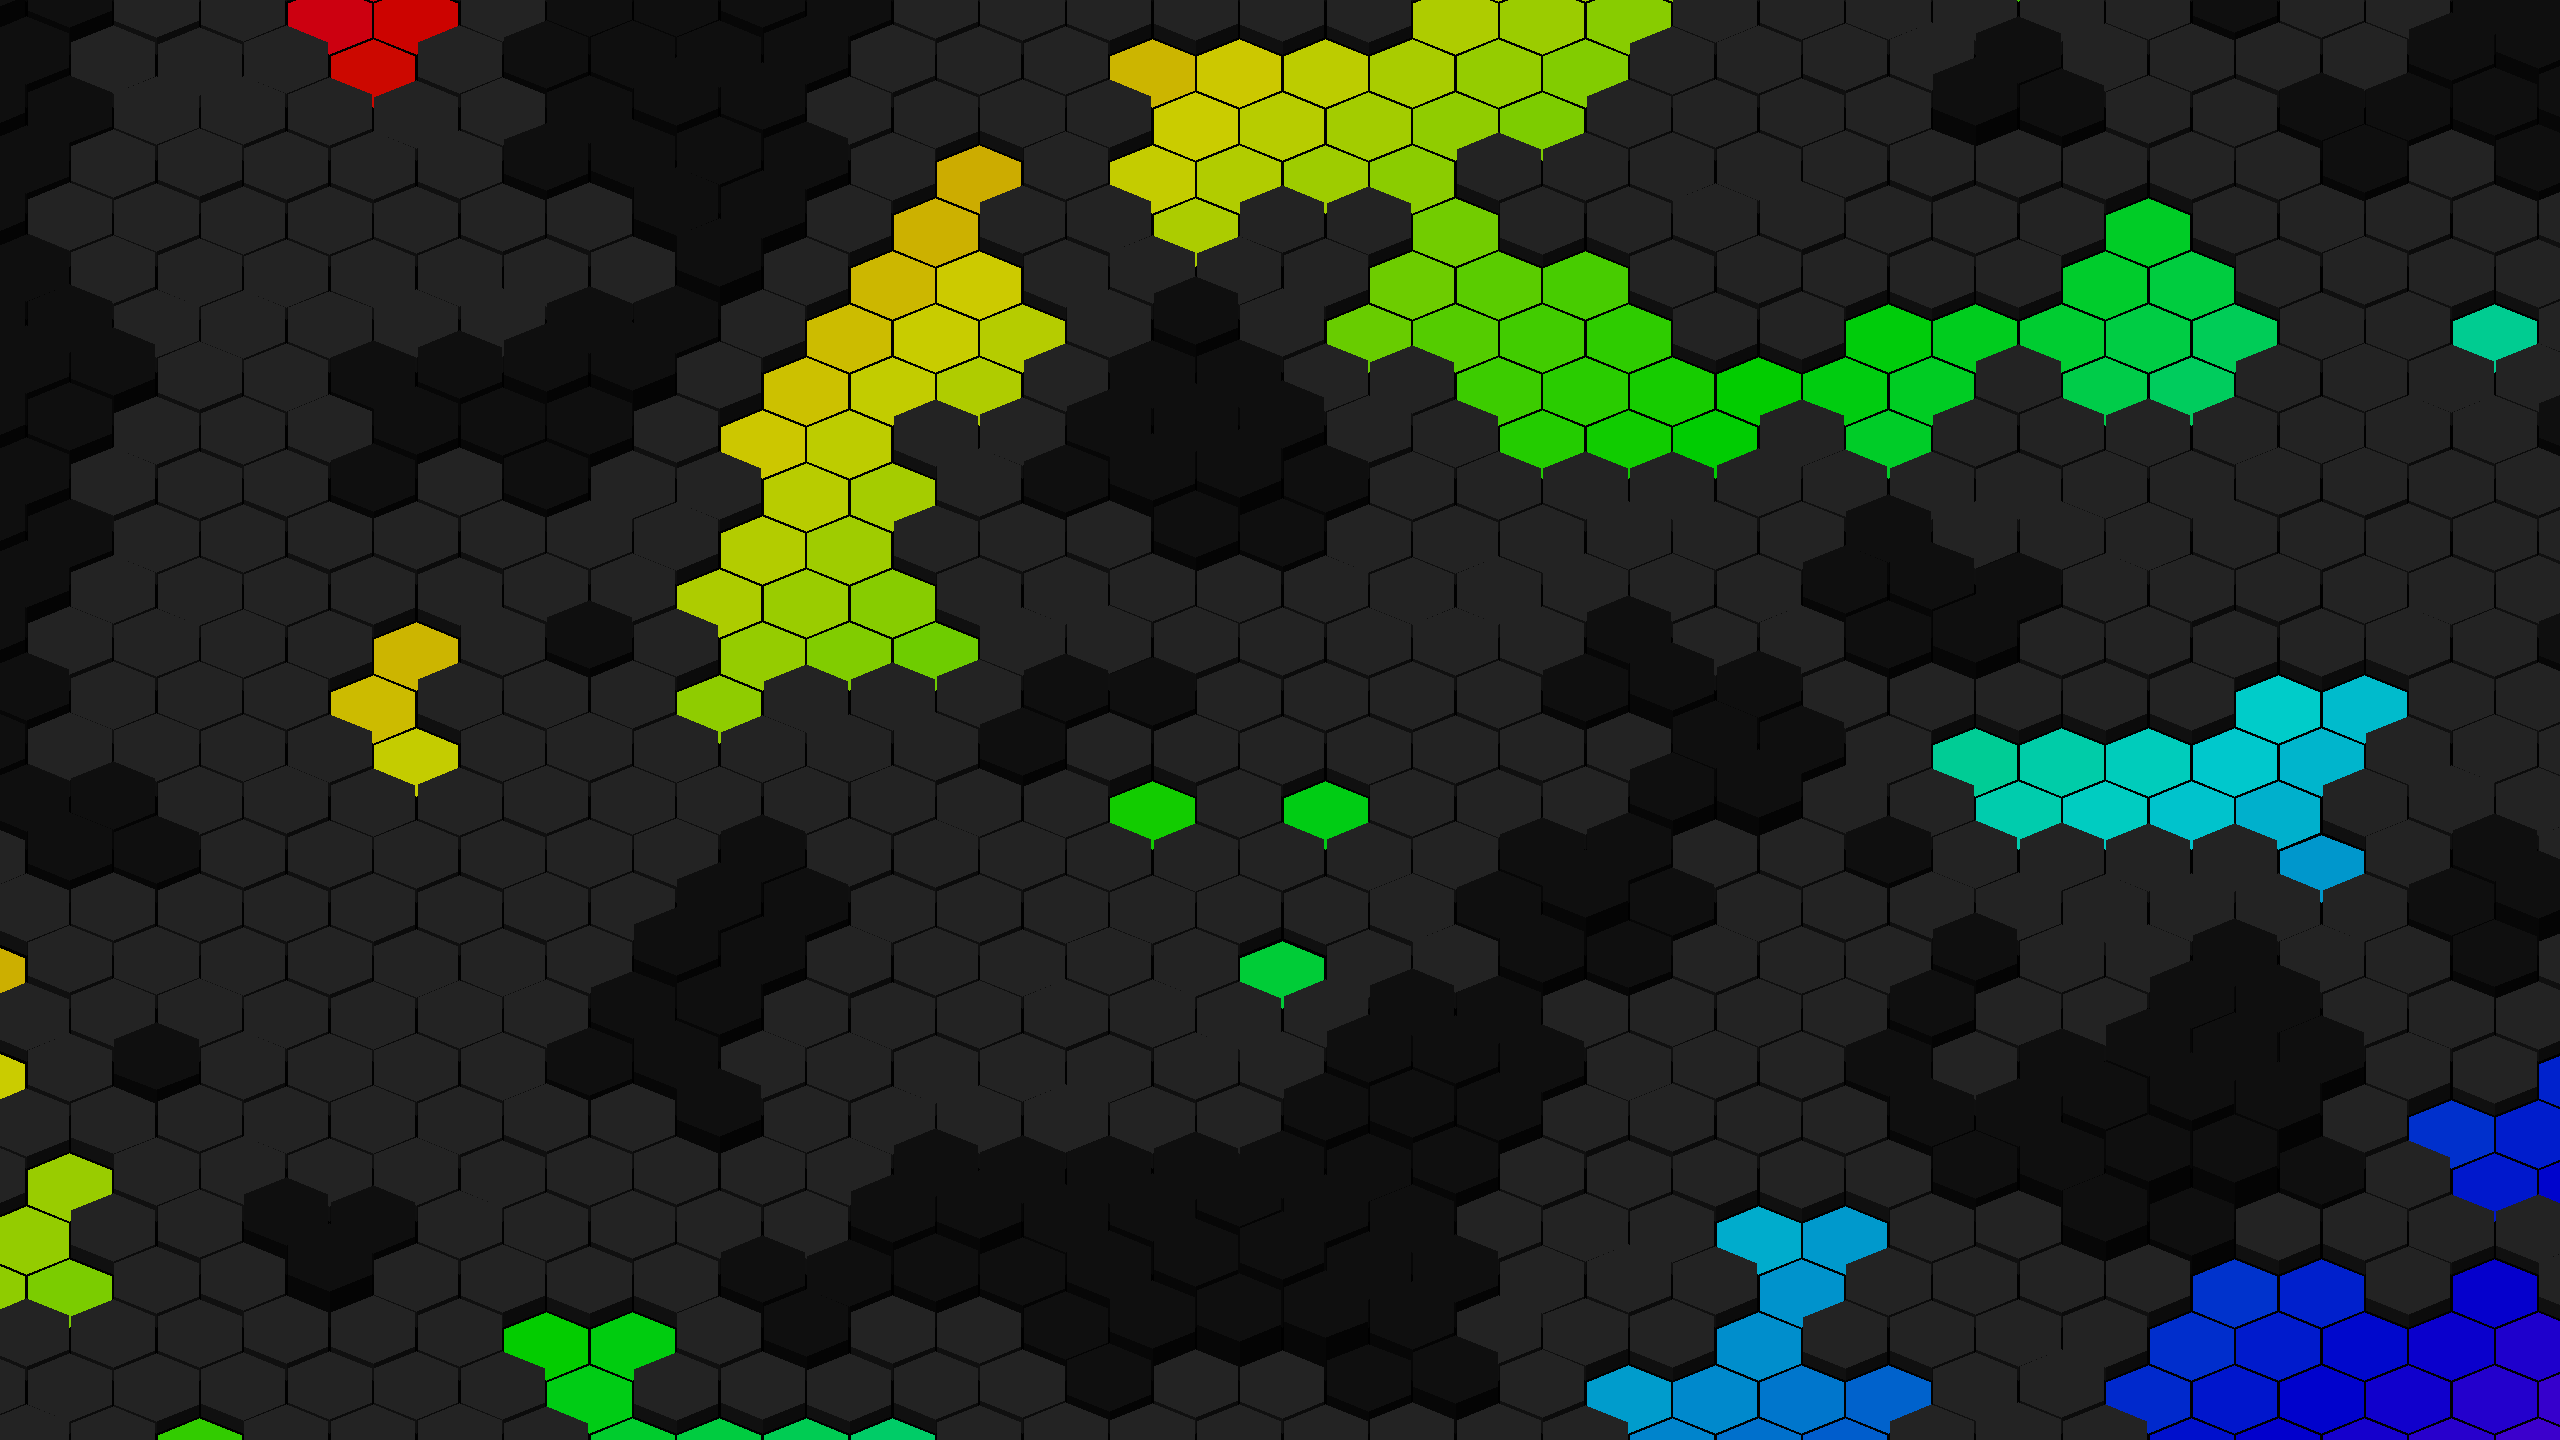
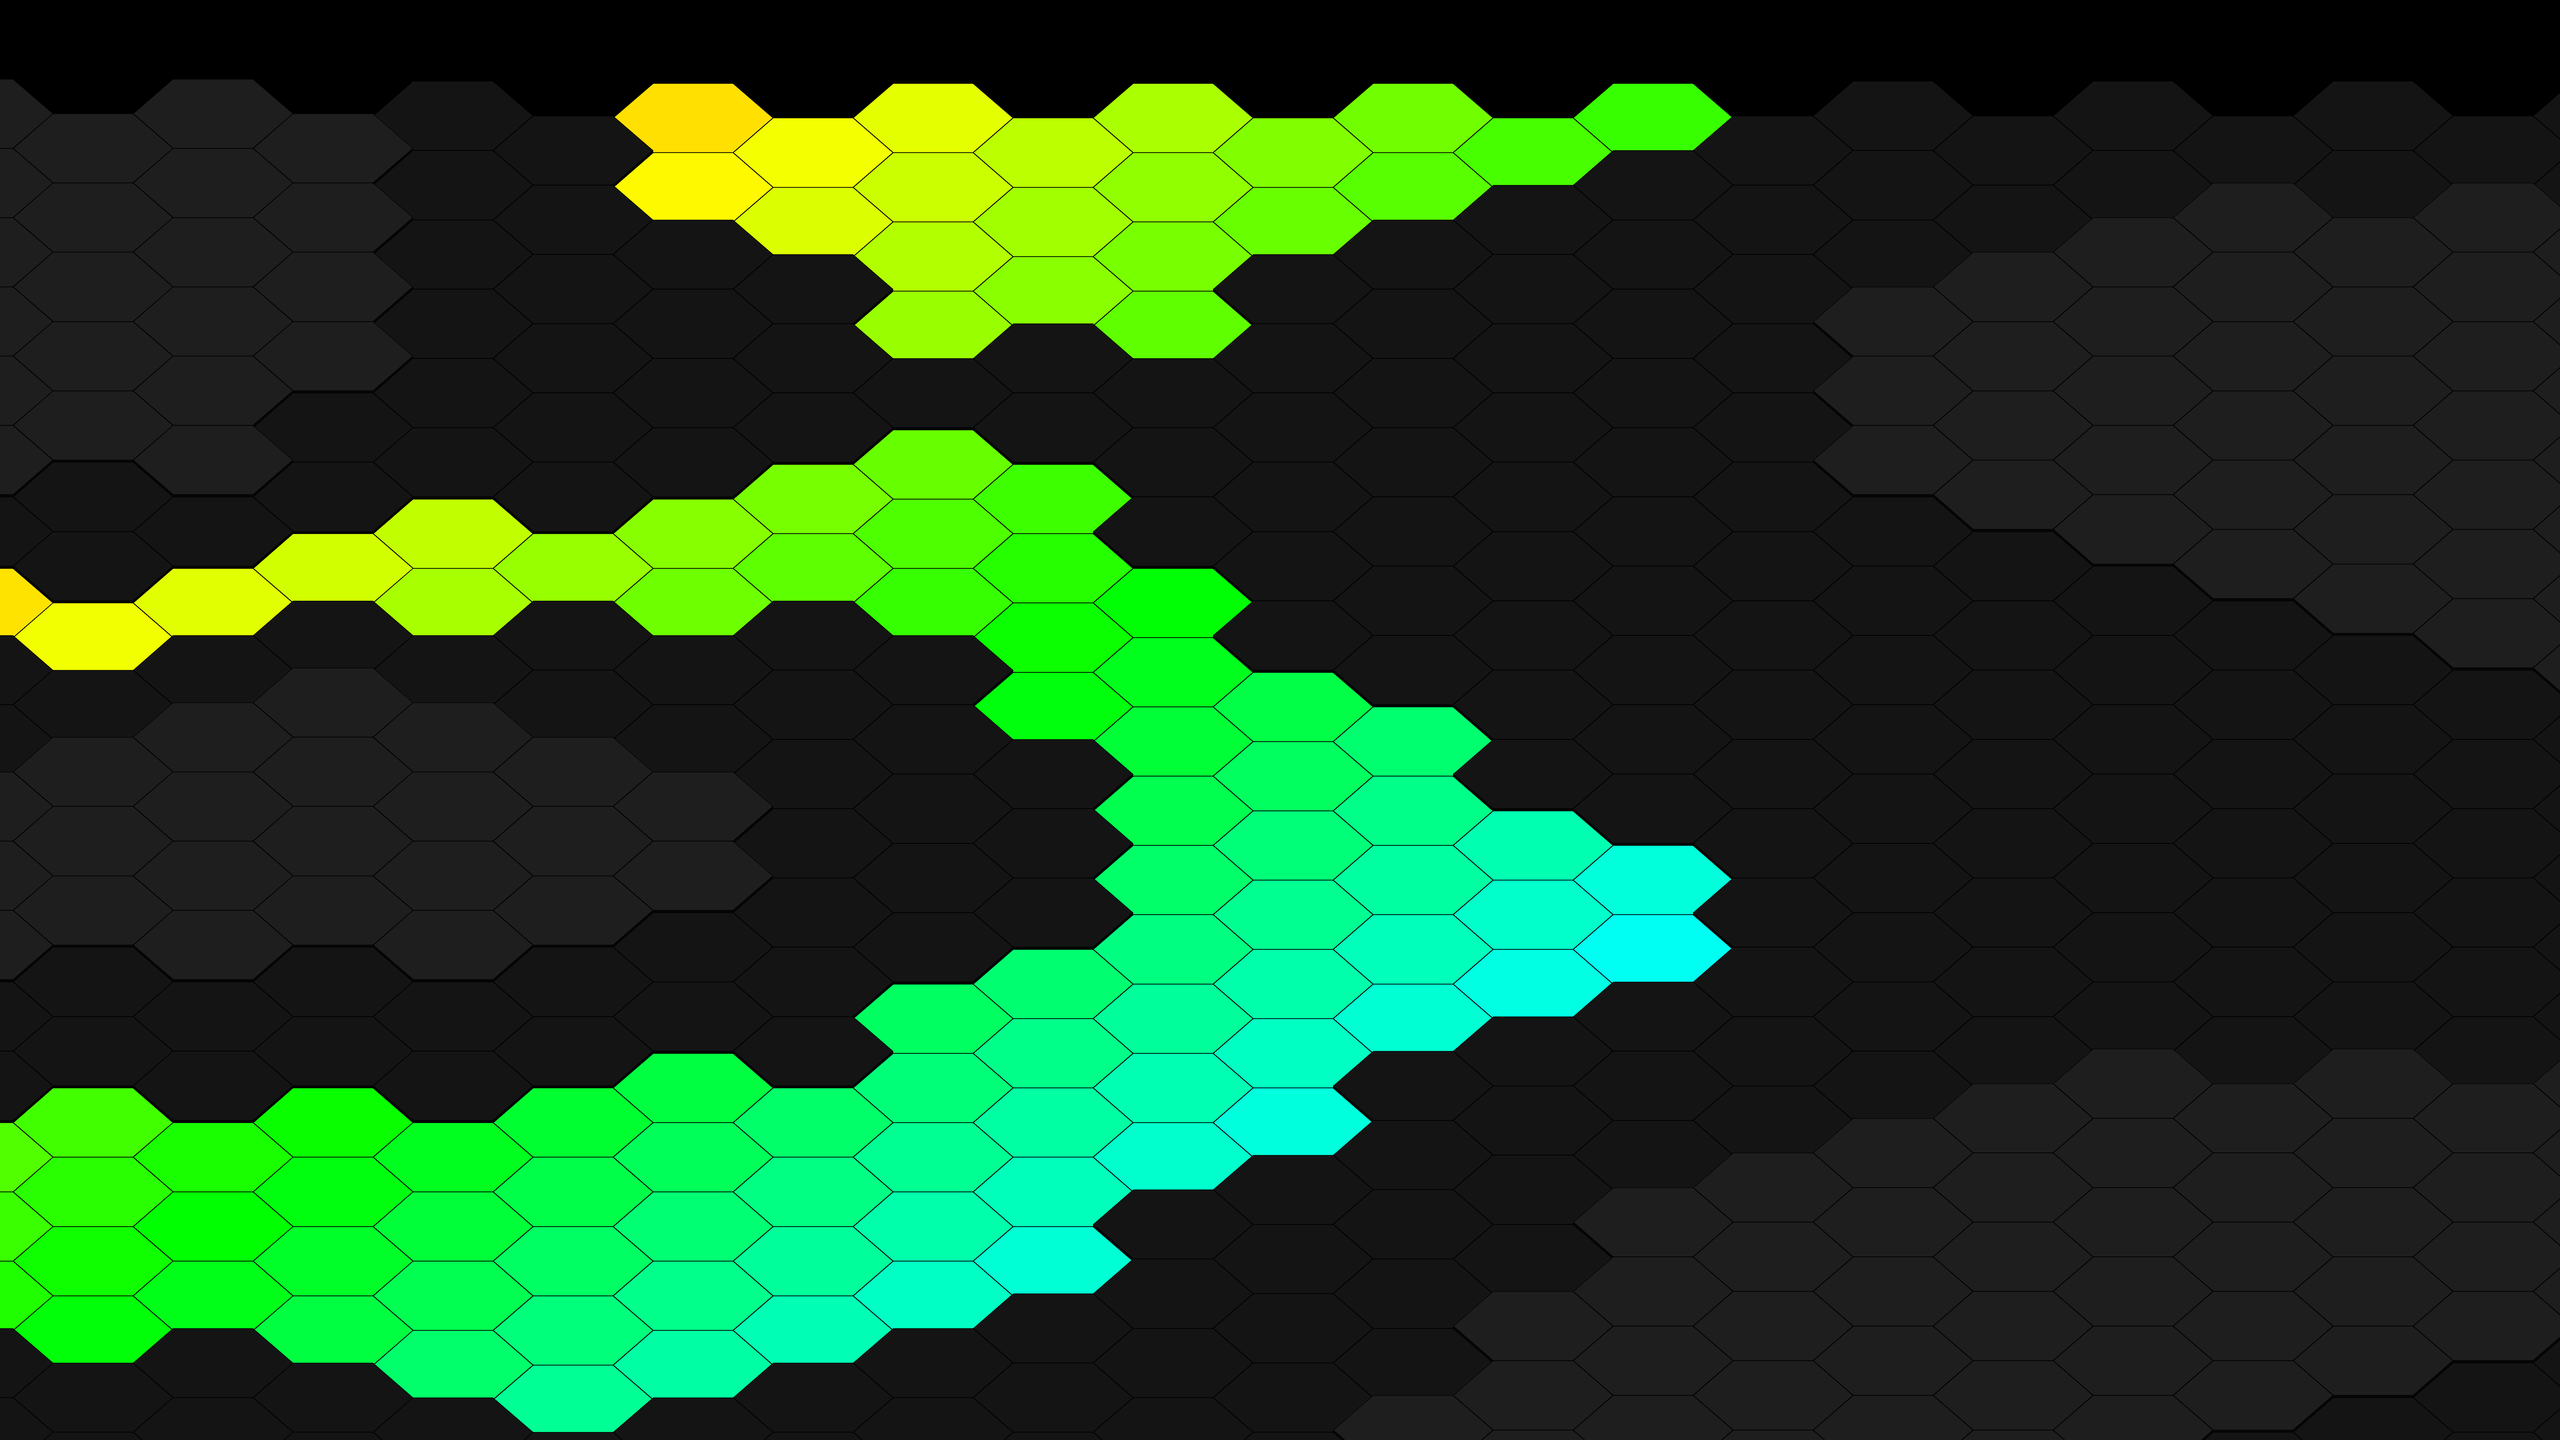
wip

diff --git a/fractalGenerator.py b/fractalGenerator.py
@@ -8,32 +8,54 @@ from PIL import Image, ImageDraw
 
 
 # === Konfiguration ===
+SUPERSAMPLE = 4
 WIDTH, HEIGHT = 2560, 1440
-HEX_RADIUS_BASE = 50  # Basis-Radius für die Hexagone
-GAP_SIZE = 2
+HEX_RADIUS_BASE = 80 * SUPERSAMPLE # Basis-Radius für die Hexagone
+GAP_SIZE = 0
 
+
+
+RENDER_WIDTH = WIDTH * SUPERSAMPLE
+RENDER_HEIGHT = HEIGHT * SUPERSAMPLE
 # === Noise Konfiguration (Das Fraktal) ===
-SCALE = 400.0  # Der "Zoom-Faktor". Größer = breitere, weichere Pfade
-OCTAVES = 4  # Die Anzahl der fraktalen Detail-Schichten
-PERSISTENCE = 0.5  # Wie stark die Details ins Gewicht fallen
+SCALE = RENDER_WIDTH * 0.9  # Der "Zoom-Faktor". Größer = breitere, weichere Pfade
+
+
+X_SCALE = SCALE * 1.2
+Y_SCALE = SCALE * 0.8
+OCTAVES = 2 # Die Anzahl der fraktalen Detail-Schichten
+PERSISTENCE = 0.4  # Wie stark die Details ins Gewicht fallen
 LACUNARITY = 2.0  # Wie "krisselig" die Details werden
 
 SEED = np.random.randint(2, 999999) # Startwert für den Zufall
+
+
+HILL_PERCENTAGE = 0.3
+PLAINS_PERCENTAGE = 0.5
+TALE_PERCENTAGE = 1 - HILL_PERCENTAGE - PLAINS_PERCENTAGE
 
 # === Random Offsets für Anti-Burn-In ===
 # Verschiebt das gesamte Grid zufällig
 GRID_OFFSET_X = random.randint(0, int(HEX_RADIUS_BASE * 2))
 GRID_OFFSET_Y = random.randint(0, int(HEX_RADIUS_BASE * 2))
-# Verschiebt den Startwert der Farben
 HUE_OFFSET = random.random()
+
+endrandomizen =False
+if endrandomizen:
+    SEED=1
+    GRID_OFFSET_X=0
+    GRID_OFFSET_Y=0
+    HUE_OFFSET = 0
+# Verschiebt den Startwert der Farben
+
 
 # === Tile-Arten ===
 BG_COLOR = (0, 0, 0)
-COLOR_DARK = (15, 15, 15)  # Berge (Hoch)
-COLOR_ELEVATED = (35, 35, 35)  # Normal (Mittel)
+COLOR_DARK = (20, 20, 20)
+COLOR_ELEVATED = (30, 30, 30)
 
 # === Farbverlauf für helle Tiles (Täler) ===
-COLOR_BRIGHTNESS = 0.8  # Helligkeit der farbigen Tiles (0.0 bis 1.0)
+COLOR_BRIGHTNESS = 1  # Helligkeit der farbigen Tiles (0.0 bis 1.0)
 
 # Setze den Seed für das Rauschen
 opensimplex.seed(SEED)
@@ -75,7 +97,7 @@ def get_hex_vertices(x, y, draw_radius):
     # Index 4: 210 deg (Top Left)
     # Index 5: 270 deg (Top)
     for i in range(6):
-        angle_deg = 60 * i - 30
+        angle_deg = 60 * i #- 30
         angle_rad = math.pi / 180 * angle_deg
         px = x + draw_radius * math.cos(angle_rad)
         py = y + draw_radius * math.sin(angle_rad)
@@ -83,22 +105,11 @@ def get_hex_vertices(x, y, draw_radius):
     return vertices
 
 def apply_isometric(x, y, z, width, height, y_offset=0):
-    """
-    Wendet eine isometrische (orthografische) Projektion an.
-    Kein Perspektiven-Scaling (Hexagone bleiben gleich groß).
-    """
-    # 1. Zentrieren für die Projektion
-    cx = width / 2
-    cy = height / 2
 
-    # 2. Kippen um die X-Achse (Pitch) - Isometrisch/Schräg von oben
-    pitch = math.pi / 4  # 45 Grad Neigung
+
+    cy = height / 3
+    pitch = math.pi / 3  # 45 Grad Neigung
     y_tilted = y * math.cos(pitch) - z * math.sin(pitch)
-    # z wird für orthografisch nicht zur Skalierung genutzt
-
-    # 3. Orthografische Projektion (kein Scaling durch Tiefe)
-    # x bleibt, y_tilted wird auf den Bildschirm gelegt
-
     x_proj = x
     y_proj = y_tilted + cy + y_offset
 
@@ -106,67 +117,83 @@ def apply_isometric(x, y, z, width, height, y_offset=0):
 
 
 def generate_wallpaper():
-    image = Image.new("RGB", (WIDTH, HEIGHT), BG_COLOR)
+    image = Image.new("RGB", (RENDER_WIDTH, RENDER_HEIGHT), BG_COLOR)
     draw = ImageDraw.Draw(image)
 
     # Basis-Grid Größe (unprojiziert)
-    # Da wir kippen, brauchen wir mehr Y-Reihen. Damit auch oben kein schwarzer Rand ist,
-    # setzen wir den start_y noch weiter nach oben.
-    grid_width = WIDTH + HEX_RADIUS_BASE * 4
-    grid_height = int(HEIGHT * 2.0) + HEX_RADIUS_BASE * 4
+    grid_width = RENDER_WIDTH + HEX_RADIUS_BASE * 4
+    grid_height = int(RENDER_HEIGHT * 2.0) + HEX_RADIUS_BASE * 4
 
-    start_x = -HEX_RADIUS_BASE * 2 + GRID_OFFSET_X
-    start_y = -HEIGHT + GRID_OFFSET_Y  # Noch weiter oben anfangen, um die obere Kante zu füllen
+    start_x = -HEX_RADIUS_BASE * 2 + (GRID_OFFSET_X * SUPERSAMPLE)
+    start_y = -RENDER_HEIGHT + (GRID_OFFSET_Y * SUPERSAMPLE)
 
-    hex_width = math.sqrt(3) * HEX_RADIUS_BASE
-    hex_height = 2 * HEX_RADIUS_BASE
-    cols = int(grid_width / hex_width) + 2
-    rows = int(grid_height / (hex_height * 0.75)) + 2
+    hex_width = 2 * HEX_RADIUS_BASE
+    hex_height = math.sqrt(3) * HEX_RADIUS_BASE
+    cols = int(grid_width / (hex_width * 0.75)) + 2
+    rows = int(grid_height / hex_height) + 2
 
+    hexagons_temp = []
+    all_noise_values = []
+
+    for col in range(cols):
+        for row in range(rows):
+            x = start_x + col * hex_width * 0.75
+            y = start_y + row * hex_height
+            if col % 2 == 1:
+                y += hex_height / 2
+
+            # Noise mit Streckung berechnen
+            noise_val = fbm(x / X_SCALE, y / Y_SCALE, OCTAVES, PERSISTENCE, LACUNARITY)
+            noise_val = abs(noise_val)  # Ridge-Noise (Flüsse erzwingen)
+
+            all_noise_values.append(noise_val)
+            hexagons_temp.append({'x': x, 'y': y, 'noise': noise_val})
+
+    # === 2. Werte sortieren und exakte Schwellenwerte berechnen ===
+    all_noise_values.sort()
+    total_hexes = len(all_noise_values)
+
+    idx_valley_end = int(total_hexes * TALE_PERCENTAGE)
+    idx_plains_end = int(total_hexes * (TALE_PERCENTAGE + PLAINS_PERCENTAGE))
+
+    thresh_valley = all_noise_values[min(idx_valley_end, total_hexes - 1)]
+    thresh_plains = all_noise_values[min(idx_plains_end, total_hexes - 1)]
+
+    # === 3. Farben und Höhen final zuweisen ===
     hexagons = []
 
-    for row in range(rows):
-        for col in range(cols):
-            x = start_x + col * hex_width
-            if row % 2 == 1:
-                x += hex_width / 2
-            y = start_y + row * hex_height * 0.75
+    for h in hexagons_temp:
+        x = h['x']
+        y = h['y']
+        noise_val = h['noise']  # Den identischen Noise-Wert auslesen!
 
-            # Noise Sampling
-            noise_val = fbm(x / SCALE, y / SCALE, OCTAVES, PERSISTENCE, LACUNARITY)
+        if noise_val >= thresh_plains:
+            # Berge (Die obersten X Prozent)
+            tile_color = COLOR_ELEVATED
+            height_z = 20
+        elif noise_val >= thresh_valley:
+            # Normale Ebene (Die mittleren X Prozent)
+            tile_color = COLOR_DARK
+            height_z = 10
+        else:
+            # Täler (Die untersten X Prozent, ganz nah an der Null-Linie)
+            hue = (((x - start_x) / grid_width) + ((y - start_y) / grid_height)) / 2.0
+            hue = (hue + HUE_OFFSET) % 1.0
+            r, g, b = colorsys.hsv_to_rgb(hue, 1.0, COLOR_BRIGHTNESS)
+            tile_color = (int(r * 255), int(g * 255), int(b * 255))
+            height_z = 0
 
-            # Umkehren der Höhen/Farben-Logik wie vom User gewünscht
-            # Täler (bunt) < Normale Ebene (grau) < Berge (dunkel)
-
-            # Höhe berechnen (z-Achse im lokalen Raum, positiv geht "nach oben")
-            if noise_val > 0.2:
-                # Berge (Hohe Werte)
-                tile_color = COLOR_DARK
-                height_z = 120 * noise_val
-            elif noise_val > -0.2:
-                # Normale Ebene
-                tile_color = COLOR_ELEVATED
-                height_z = 20 + 20 * noise_val
-            else:
-                # Täler (Niedrige Werte)
-                # Bunter Farbverlauf + HUE_OFFSET
-                hue = (((x - start_x) / grid_width) + ((y - start_y) / grid_height)) / 2.0
-                hue = (hue + HUE_OFFSET) % 1.0
-                r, g, b = colorsys.hsv_to_rgb(hue, 1.0, COLOR_BRIGHTNESS)
-                tile_color = (int(r * 255), int(g * 255), int(b * 255))
-                height_z = 0 # Täler sind ganz unten (flach)
-
-            hexagons.append({
-                'x': x,
-                'y': y,
-                'z': height_z,
-                'color': tile_color,
-                'noise': noise_val
-            })
+        hexagons.append({
+            'x': x,
+            'y': y,
+            'z': height_z,
+            'color': tile_color,
+            'noise': noise_val
+        })
 
     # Sortieren für den Painter's Algorithm
     projected_hexagons = []
-    y_offset = HEIGHT * 0.1 # Verschiebung auf dem Bildschirm
+    y_offset = RENDER_HEIGHT * 0.1 # Verschiebung auf dem Bildschirm
 
     for h in hexagons:
         x, y, z, color = h['x'], h['y'], h['z'], h['color']
@@ -176,11 +203,11 @@ def generate_wallpaper():
 
         # Eckpunkte Boden
         base_vertices = get_hex_vertices(x, y, HEX_RADIUS_BASE - GAP_SIZE)
-        proj_base_vertices = [apply_isometric(vx, vy, 0, WIDTH, HEIGHT, y_offset) for vx, vy in base_vertices]
+        proj_base_vertices = [apply_isometric(vx, vy, 0, RENDER_WIDTH, RENDER_HEIGHT, y_offset) for vx, vy in base_vertices]
 
         # Eckpunkte Dach
         top_vertices = get_hex_vertices(x, y, HEX_RADIUS_BASE - GAP_SIZE)
-        proj_top_vertices = [apply_isometric(vx, vy, z, WIDTH, HEIGHT, y_offset) for vx, vy in top_vertices]
+        proj_top_vertices = [apply_isometric(vx, vy, z, RENDER_WIDTH, RENDER_HEIGHT, y_offset) for vx, vy in top_vertices]
 
         # Sortierkriterium: y im unprojizierten Raum
         projected_hexagons.append({
@@ -203,39 +230,20 @@ def generate_wallpaper():
 
         # Kanten (Säulenwände) zeichnen
         if z_height > 1:
-            side_color_1 = darken_color(color, 0.6) # Links
-            side_color_2 = darken_color(color, 0.4) # Rechts
-            side_color_3 = darken_color(color, 0.5) # Unten
+            side_color_r = darken_color(color, 0.2)  # Rechte Wand (am dunkelsten)
+            side_color_f = darken_color(color, 0.2)  # Frontale Wand (heller, blickt zu uns)
+            side_color_l = darken_color(color, 0.2)  # Linke Wand
 
-            # Eckpunkte des Hexagons aus get_hex_vertices:
-            # 0: -30° (Top Right)
-            # 1: 30° (Bottom Right)
-            # 2: 90° (Bottom Center)
-            # 3: 150° (Bottom Left)
-            # 4: 210° (Top Left)
-            # 5: 270° (Top Center)
-
-            # Bei Isometrie/Kippen um X-Achse sind die sichtbaren Kanten:
-            # 1-2 (Bottom Right zu Bottom Center)
-            # 2-3 (Bottom Center zu Bottom Left)
-            # Manchmal 0-1 (Top Right zu Bottom Right)
-            # Manchmal 3-4 (Bottom Left zu Top Left)
-
-            # Wir zeichnen die Wände von hinten nach vorne / Seiten nach Mitte
-
-            # Wand Rechts Oben (0-1)
-            draw.polygon([top_pts[0], top_pts[1], base_pts[1], base_pts[0]], fill=side_color_2)
-            # Wand Links Oben (3-4)
-            draw.polygon([top_pts[3], top_pts[4], base_pts[4], base_pts[3]], fill=side_color_1)
-
-            # Wand Rechts Unten (1-2)
-            draw.polygon([top_pts[1], top_pts[2], base_pts[2], base_pts[1]], fill=darken_color(side_color_2, 0.8))
-            # Wand Links Unten (2-3)
-            draw.polygon([top_pts[2], top_pts[3], base_pts[3], base_pts[2]], fill=darken_color(side_color_1, 0.8))
+            # Wand Rechts (Eckpunkte 0 und 1)
+            draw.polygon([top_pts[0], top_pts[1], base_pts[1], base_pts[0]], fill=side_color_r)
+            # Wand Vorne / Front (Eckpunkte 1 und 2) -> Parallel zum Bildschirmrand!
+            draw.polygon([top_pts[1], top_pts[2], base_pts[2], base_pts[1]], fill=side_color_f)
+            # Wand Links (Eckpunkte 2 und 3)
+            draw.polygon([top_pts[2], top_pts[3], base_pts[3], base_pts[2]], fill=side_color_l)
 
         # Dach zeichnen
-        draw.polygon(top_pts, fill=color)
-
+        draw.polygon(top_pts, fill=color, outline=BG_COLOR, width=2)
+    image = image.resize((WIDTH, HEIGHT), Image.Resampling.LANCZOS)
     return image
 
 